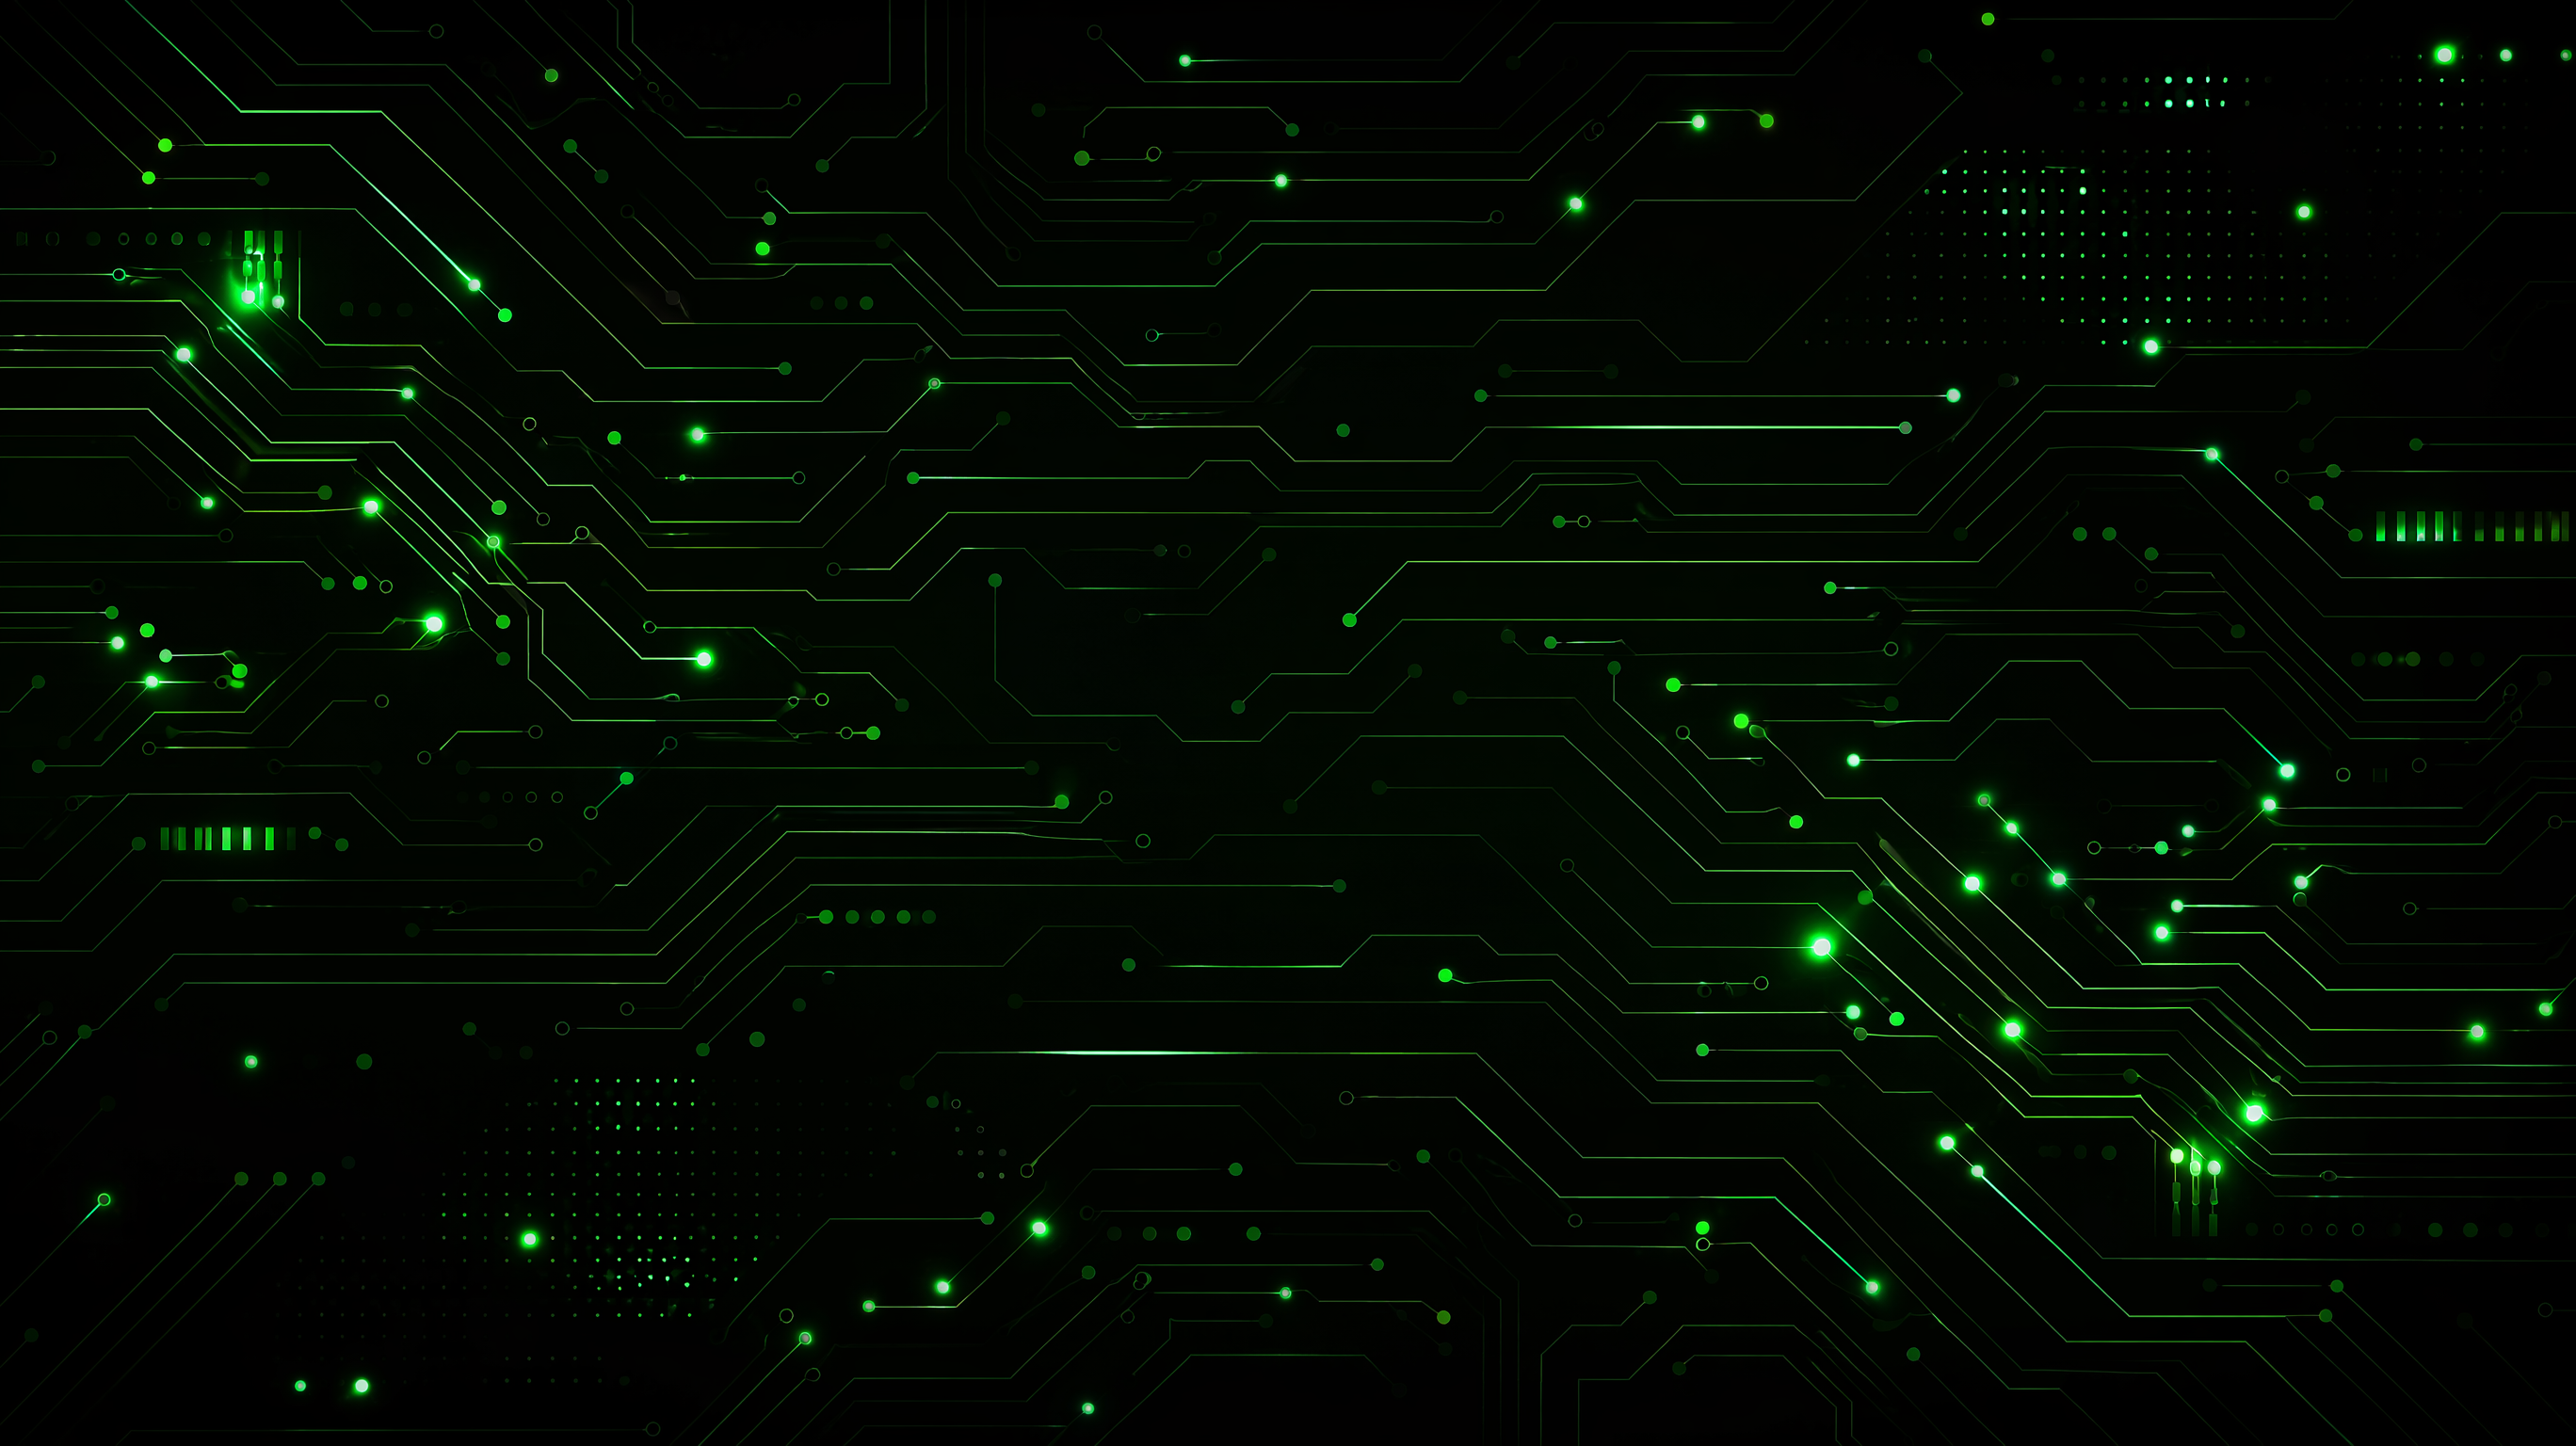
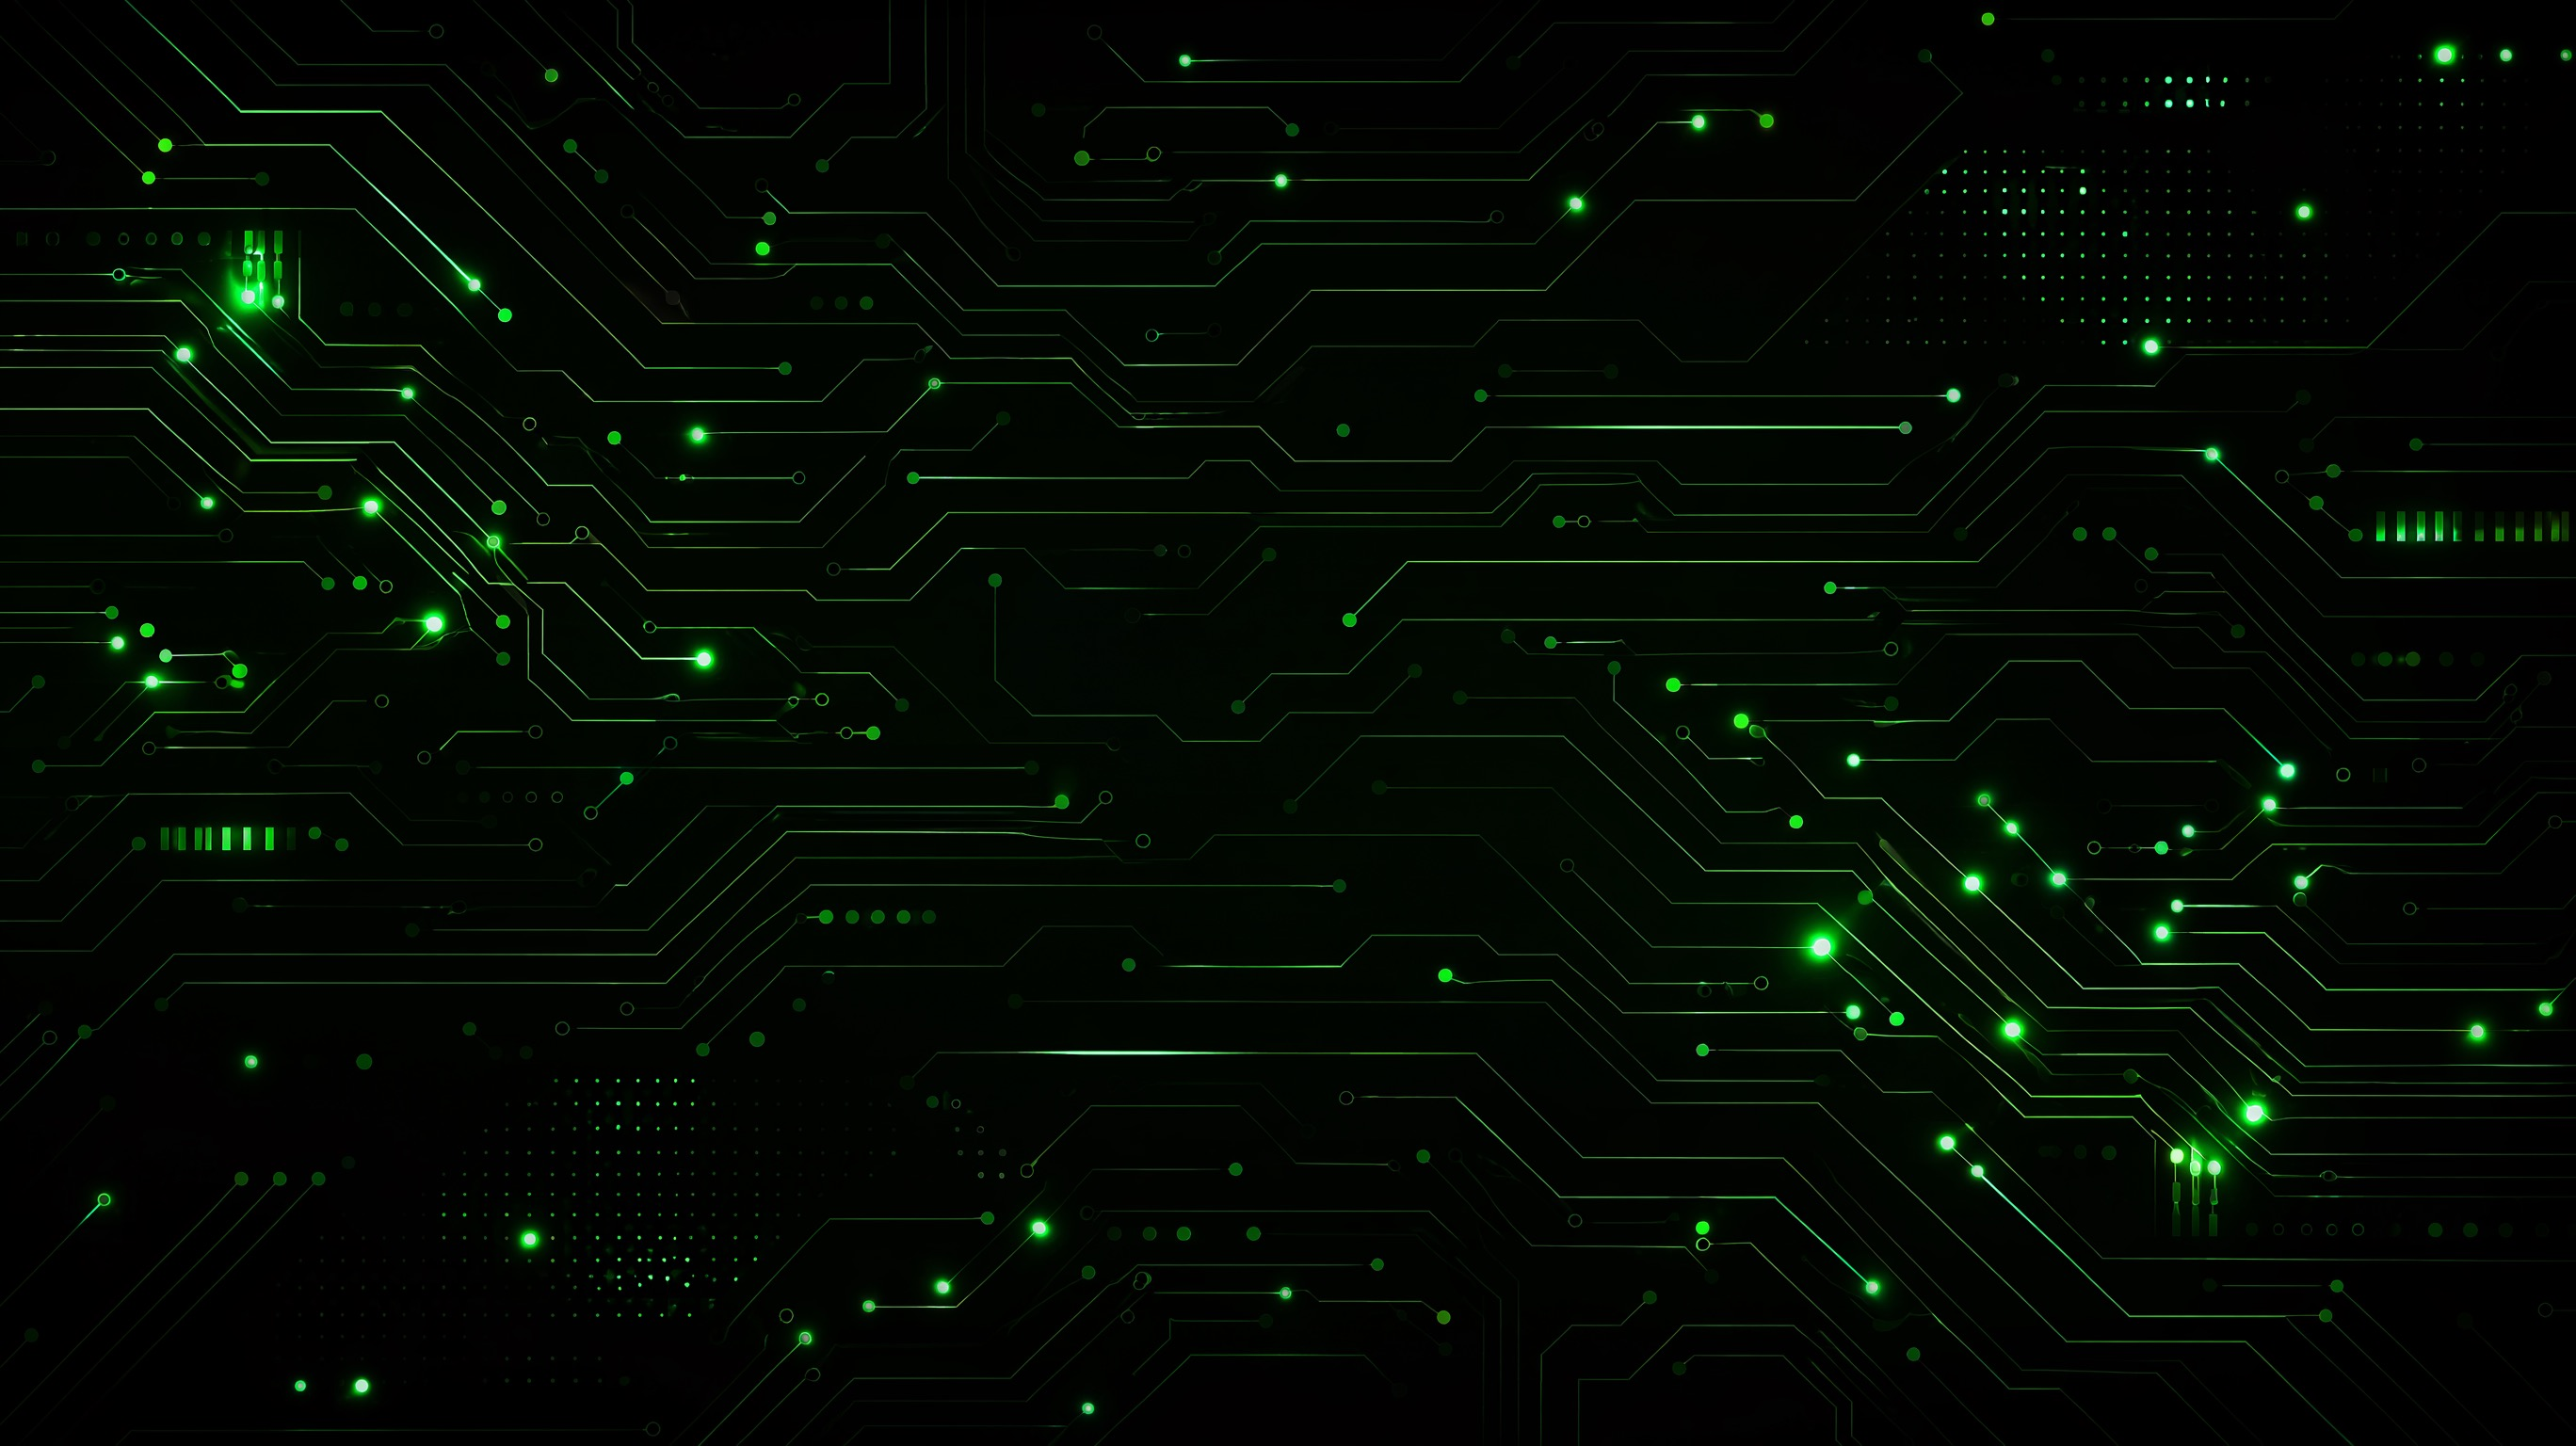
feat: 移动端同步section + 图片压缩

diff --git a/mobile-sync.html b/mobile-sync.html
@@ -1,0 +1,205 @@
+<!DOCTYPE html>
+<html lang="zh-CN">
+<head>
+<meta charset="UTF-8">
+<meta name="viewport" content="width=device-width, initial-scale=1.0">
+<title>移动端同步 · 三链路架构</title>
+<style>
+@import url('https://fonts.googleapis.com/css2?family=Inter:wght@300;400;500;600;700;800;900&family=Noto+Sans+SC:wght@300;400;500;700;900&family=JetBrains+Mono:wght@400;500;700&display=swap');
+*{margin:0;padding:0;box-sizing:border-box}
+:root{--bg:#070908;--card:#151716;--text:#ECEEEE;--dim:#8B9299;--border:#2B302E;--green:#00F58A;--cyan:#2ED9FF;--yellow:#FFD84D;--red:#FF5EBB}
+body{font-family:'Noto Sans SC','Inter',sans-serif;background:var(--bg);color:var(--text);line-height:1.6;-webkit-font-smoothing:antialiased}
+
+.container{max-width:1200px;margin:0 auto;padding:80px 40px}
+
+/* 标题区 */
+.header{text-align:center;margin-bottom:80px}
+.header .tag{display:inline-block;background:rgba(0,245,138,0.08);border:1px solid rgba(0,245,138,0.2);color:var(--green);font-size:14px;font-weight:700;padding:10px 24px;border-radius:100px;margin-bottom:32px;letter-spacing:2px}
+.header h1{font-size:clamp(48px,6vw,72px);font-weight:900;line-height:1.1;letter-spacing:-2px;margin-bottom:24px}
+.header h1 .hl{color:var(--green)}
+.header .sub{font-size:20px;color:var(--dim);max-width:600px;margin:0 auto;line-height:1.7}
+
+/* 三链路图 */
+.arch-diagram{position:relative;background:var(--card);border:1px solid var(--border);border-radius:24px;padding:60px 40px;margin-bottom:60px;overflow:hidden}
+.arch-diagram::before{content:'';position:absolute;inset:0;background:radial-gradient(ellipse at 30% 50%,rgba(0,245,138,0.03) 0%,transparent 60%);z-index:0}
+
+.nodes{display:flex;justify-content:space-between;align-items:center;position:relative;z-index:1}
+.node{text-align:center;flex:1}
+.node .icon{font-size:64px;margin-bottom:20px;display:block}
+.node .name{font-size:20px;font-weight:800;margin-bottom:8px}
+.node .desc{font-size:14px;color:var(--dim);max-width:180px;margin:0 auto}
+.node .location{font-family:'JetBrains Mono',monospace;font-size:12px;color:var(--cyan);margin-top:12px;padding:6px 16px;background:rgba(46,217,255,0.08);border:1px solid rgba(46,217,255,0.2);border-radius:100px;display:inline-block}
+
+.arrows{display:flex;justify-content:space-around;position:relative;z-index:1;margin:40px 0}
+.arrow{text-align:center}
+.arrow .line{width:200px;height:2px;background:linear-gradient(to right,var(--green),var(--cyan));margin:0 auto 12px;position:relative}
+.arrow .line::after{content:'';position:absolute;right:-6px;top:-4px;width:0;height:0;border-left:8px solid var(--cyan);border-top:6px solid transparent;border-bottom:6px solid transparent}
+.arrow .label{font-family:'JetBrains Mono',monospace;font-size:12px;color:var(--green);letter-spacing:1px}
+.arrow .protocol{font-size:11px;color:var(--dim);margin-top:4px}
+
+/* 功能卡片 */
+.features{display:grid;grid-template-columns:repeat(auto-fit,minmax(300px,1fr));gap:24px;margin-bottom:60px}
+.feature{background:var(--card);border:1px solid var(--border);border-radius:20px;padding:36px;transition:border-color 0.3s,transform 0.3s}
+.feature:hover{border-color:var(--green);transform:translateY(-4px)}
+.feature .ic{font-size:40px;margin-bottom:20px}
+.feature h3{font-size:20px;font-weight:800;margin-bottom:12px}
+.feature p{font-size:16px;color:var(--dim);line-height:1.7}
+.feature .check{color:var(--green);font-family:'JetBrains Mono',monospace;font-size:14px;margin-top:16px}
+
+/* 时间线对比 */
+.timeline-compare{display:grid;grid-template-columns:1fr 1fr;gap:32px;margin-bottom:60px}
+.timeline-card{background:var(--card);border:1px solid var(--border);border-radius:20px;padding:36px}
+.timeline-card.old{border-color:rgba(255,94,191,0.3)}
+.timeline-card.new{border-color:rgba(0,245,138,0.3)}
+.timeline-card h3{font-size:20px;font-weight:800;margin-bottom:24px}
+.timeline-item{display:flex;align-items:flex-start;gap:16px;margin-bottom:20px;position:relative;padding-left:24px}
+.timeline-item::before{content:'';position:absolute;left:0;top:8px;width:10px;height:10px;border-radius:50%;background:var(--dim)}
+.timeline-card.new .timeline-item::before{background:var(--green);box-shadow:0 0 12px rgba(0,245,138,0.4)}
+.timeline-item .time{font-family:'JetBrains Mono',monospace;font-size:14px;color:var(--cyan);min-width:60px}
+.timeline-item .content{font-size:15px;color:var(--dim)}
+.timeline-item .highlight{color:var(--text);font-weight:600}
+
+/* 核心价值 */
+.value-section{text-align:center;padding:60px 0}
+.value-section h2{font-size:36px;font-weight:900;margin-bottom:16px}
+.value-section .sub{font-size:18px;color:var(--dim);margin-bottom:40px}
+.value-badge{display:inline-flex;align-items:center;gap:12px;background:var(--card);border:1px solid var(--border);border-radius:14px;padding:16px 28px;font-family:'JetBrains Mono',monospace;font-size:16px}
+.value-badge .dot{width:10px;height:10px;border-radius:50%;background:var(--green);animation:pulse 2s infinite}
+@keyframes pulse{0%,100%{opacity:1}50%{opacity:0.3}}
+
+/* 底部 */
+.footer{text-align:center;padding:40px;font-size:13px;color:var(--dim);border-top:1px solid var(--border)}
+</style>
+</head>
+<body>
+
+<div class="container">
+
+<div class="header">
+  <div class="tag">MOBILE SYNC · THREE-LINK ARCHITECTURE</div>
+  <h1>在家就能<br><span class="hl">训练大模型</span></h1>
+  <p class="sub">手机 → 公司特区电脑 → 远程开发机<br>三链路打通，睡觉时 AI 在干活</p>
+</div>
+
+<!-- 三链路架构图 -->
+<div class="arch-diagram">
+  <div class="nodes">
+    <div class="node">
+      <span class="icon">📱</span>
+      <div class="name">手机</div>
+      <div class="desc">随时随地发指令</div>
+      <div class="location">🏠 家里</div>
+    </div>
+    <div class="node">
+      <span class="icon">🖥️</span>
+      <div class="name">特区电脑</div>
+      <div class="desc">Codex 运行环境</div>
+      <div class="location">🏢 公司</div>
+    </div>
+    <div class="node">
+      <span class="icon">⚡</span>
+      <div class="name">远程开发机</div>
+      <div class="desc">昇腾 910C 集群</div>
+      <div class="location">☁️ 集群</div>
+    </div>
+  </div>
+  
+  <div class="arrows">
+    <div class="arrow">
+      <div class="line"></div>
+      <div class="label">SSH TUNNEL</div>
+      <div class="protocol">加密隧道</div>
+    </div>
+    <div class="arrow">
+      <div class="line"></div>
+      <div class="label">SSH + CODEX</div>
+      <div class="protocol">任务调度</div>
+    </div>
+  </div>
+</div>
+
+<!-- 功能特性 -->
+<div class="features">
+  <div class="feature">
+    <div class="ic">🔄</div>
+    <h3>移动端同步</h3>
+    <p>手机和电脑端可以干同样的活。手机上发指令，电脑端实时同步；手机上查看日志，电脑端也能看。</p>
+    <div class="check">✅ 不是远程桌面，是真正的同步协作</div>
+  </div>
+  
+  <div class="feature">
+    <div class="ic">🌙</div>
+    <h3>异步执行</h3>
+    <p>白天你正常干活，不用管 AI。晚上手机上布置任务，睡觉时 AI 自主运行，早上起来验收结果。</p>
+    <div class="check">✅ 节省的不是执行时间，是注意力时间</div>
+  </div>
+  
+  <div class="feature">
+    <div class="ic">🏠</div>
+    <h3>在家训练</h3>
+    <p>通过手机连接公司特区电脑，再由特区电脑连接远程开发机，实现"在家就能训练大模型"。</p>
+    <div class="check">✅ 突破物理位置限制</div>
+  </div>
+</div>
+
+<!-- 时间线对比 -->
+<div class="timeline-compare">
+  <div class="timeline-card old">
+    <h3>❌ 传统方式</h3>
+    <div class="timeline-item">
+      <div class="time">09:00</div>
+      <div class="content"><span class="highlight">开始调试</span>，全程盯着</div>
+    </div>
+    <div class="timeline-item">
+      <div class="time">10:30</div>
+      <div class="content">改一个参数，跑一轮验证</div>
+    </div>
+    <div class="timeline-item">
+      <div class="time">12:00</div>
+      <div class="content">还在调试，<span class="highlight">人不能离开</span></div>
+    </div>
+    <div class="timeline-item">
+      <div class="time">14:00</div>
+      <div class="content">终于跑通，<span class="highlight">5 小时全投入</span></div>
+    </div>
+  </div>
+  
+  <div class="timeline-card new">
+    <h3>✅ Codex 方式</h3>
+    <div class="timeline-item">
+      <div class="time">白天</div>
+      <div class="content"><span class="highlight">正常干活</span>，不用管 AI</div>
+    </div>
+    <div class="timeline-item">
+      <div class="time">20:18</div>
+      <div class="content">手机上布置任务（<span class="highlight">1-2 分钟</span>）</div>
+    </div>
+    <div class="timeline-item">
+      <div class="time">睡觉</div>
+      <div class="content">AI 自主运行 <span class="highlight">5 小时 19 分</span></div>
+    </div>
+    <div class="timeline-item">
+      <div class="time">09:30</div>
+      <div class="content">打开电脑，<span class="highlight">核心链路全通</span></div>
+    </div>
+  </div>
+</div>
+
+<!-- 核心价值 -->
+<div class="value-section">
+  <h2>真正的价值</h2>
+  <p class="sub">不是"快"，是异步——睡觉时 AI 在跑</p>
+  <div class="value-badge">
+    <span class="dot"></span>
+    <span>节省工程师注意力时间 > 执行时间</span>
+  </div>
+</div>
+
+</div>
+
+<div class="footer">
+  孙博阳 · 基础大模型部·系统工程实验室 · 2026.06
+</div>
+
+</body>
+</html>

diff --git a/index.html b/index.html
@@ -114,8 +114,8 @@ footer a{color:var(--green);text-decoration:none}
   <div class="logo">CODEX DEMO</div>
   <div class="links">
     <a href="#s01">结果</a><a href="#s02">背景</a><a href="#s03">故事</a>
-    <a href="#s05">难点</a><a href="#s07">改动</a><a href="#s09">对比</a>
-    <a href="#s10">推广</a><a href="#s11">结语</a>
+    <a href="#s04b">移动端</a><a href="#s05">难点</a><a href="#s07">改动</a>
+    <a href="#s09">对比</a><a href="#s10">推广</a><a href="#s11">结语</a>
   </div>
 </nav>
 <div class="pi" id="pi"></div>
@@ -206,6 +206,61 @@ footer a{color:var(--green);text-decoration:none}
           <h2>手机上说了句"继续"</h2>
           <p>然后就去睡了。</p>
         </div>
+      </div>
+    </div>
+  </div>
+</section>
+
+<!-- P4b: MOBILE SYNC -->
+<section id="s04b">
+  <div class="ctr fi">
+    <div class="sn">04B / MOBILE SYNC</div>
+    <div class="st">在家就能<br><span style="color:var(--green)">训练大模型</span></div>
+    <div class="sd">手机 → 公司特区电脑 → 远程开发机<br>三链路打通，睡觉时 AI 在干活。</div>
+    <div class="div"></div>
+    <div style="background:var(--card);border:1px solid var(--border);border-radius:20px;padding:48px 32px;margin-top:36px">
+      <div style="display:flex;justify-content:space-around;align-items:center;flex-wrap:wrap;gap:32px">
+        <div style="text-align:center;flex:1;min-width:140px">
+          <div style="font-size:56px;margin-bottom:16px">📱</div>
+          <div style="font-weight:800;font-size:18px;margin-bottom:8px">手机</div>
+          <div style="font-size:14px;color:var(--dim)">随时随地发指令</div>
+          <div style="font-family:'JetBrains Mono',monospace;font-size:12px;color:var(--cyan);margin-top:8px;padding:4px 12px;background:rgba(46,217,255,0.08);border:1px solid rgba(46,217,255,0.2);border-radius:100px;display:inline-block">🏠 家里</div>
+        </div>
+        <div style="font-size:32px;color:var(--green)">→</div>
+        <div style="text-align:center;flex:1;min-width:140px">
+          <div style="font-size:56px;margin-bottom:16px">🖥️</div>
+          <div style="font-weight:800;font-size:18px;margin-bottom:8px">特区电脑</div>
+          <div style="font-size:14px;color:var(--dim)">Codex 运行环境</div>
+          <div style="font-family:'JetBrains Mono',monospace;font-size:12px;color:var(--cyan);margin-top:8px;padding:4px 12px;background:rgba(46,217,255,0.08);border:1px solid rgba(46,217,255,0.2);border-radius:100px;display:inline-block">🏢 公司</div>
+        </div>
+        <div style="font-size:32px;color:var(--green)">→</div>
+        <div style="text-align:center;flex:1;min-width:140px">
+          <div style="font-size:56px;margin-bottom:16px">⚡</div>
+          <div style="font-weight:800;font-size:18px;margin-bottom:8px">远程开发机</div>
+          <div style="font-size:14px;color:var(--dim)">昇腾 910C 集群</div>
+          <div style="font-family:'JetBrains Mono',monospace;font-size:12px;color:var(--cyan);margin-top:8px;padding:4px 12px;background:rgba(46,217,255,0.08);border:1px solid rgba(46,217,255,0.2);border-radius:100px;display:inline-block">☁️ 集群</div>
+        </div>
+      </div>
+      <div style="text-align:center;margin-top:32px;padding-top:24px;border-top:1px solid var(--border)">
+        <div style="font-family:'JetBrains Mono',monospace;font-size:14px;color:var(--green);letter-spacing:1px">SSH TUNNEL + CODEX SYNC</div>
+        <div style="font-size:13px;color:var(--dim);margin-top:8px">移动端和电脑端干同样的活 · 不是远程桌面，是真正的同步协作</div>
+      </div>
+    </div>
+    <div class="stats" style="grid-template-columns:1fr 1fr 1fr;margin-top:32px">
+      <div class="stat">
+        <div style="font-size:32px;margin-bottom:12px">🔄</div>
+        <div style="font-weight:800;margin-bottom:8px">移动端同步</div>
+        <div class="l">手机发指令，电脑实时同步</div>
+      </div>
+      <div class="stat">
+        <div style="font-size:32px;margin-bottom:12px">🌙</div>
+        <div style="font-weight:800;margin-bottom:8px">异步执行</div>
+        <div class="l">睡觉时 AI 在干活</div>
+      </div>
+      <div class="stat">
+        <div style="font-size:32px;margin-bottom:12px">🏠</div>
+        <div style="font-weight:800;margin-bottom:8px">在家训练</div>
+        <div class="l">突破物理位置限制</div>
       </div>
     </div>
   </div>